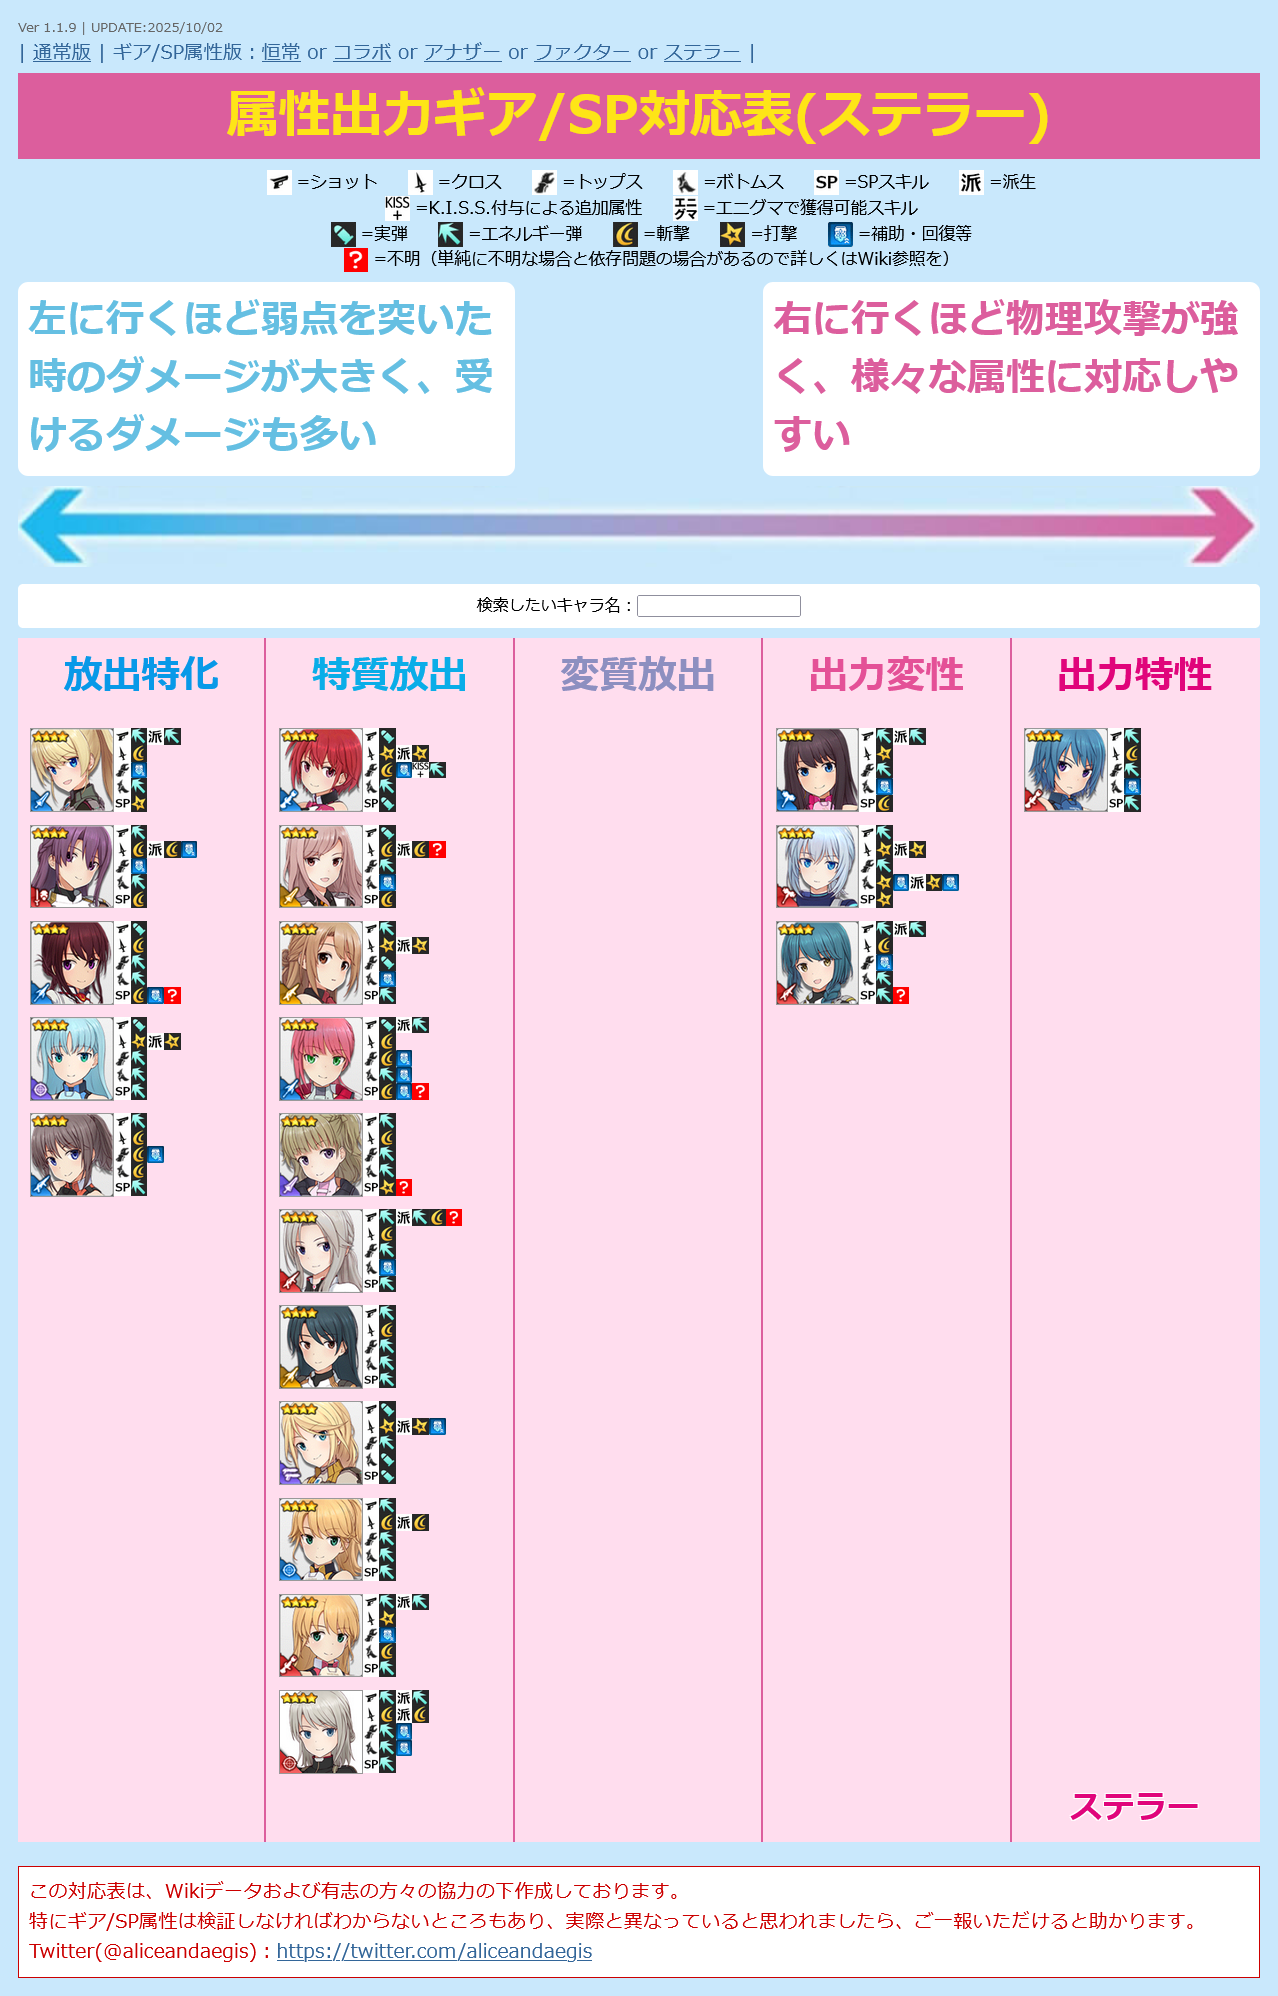
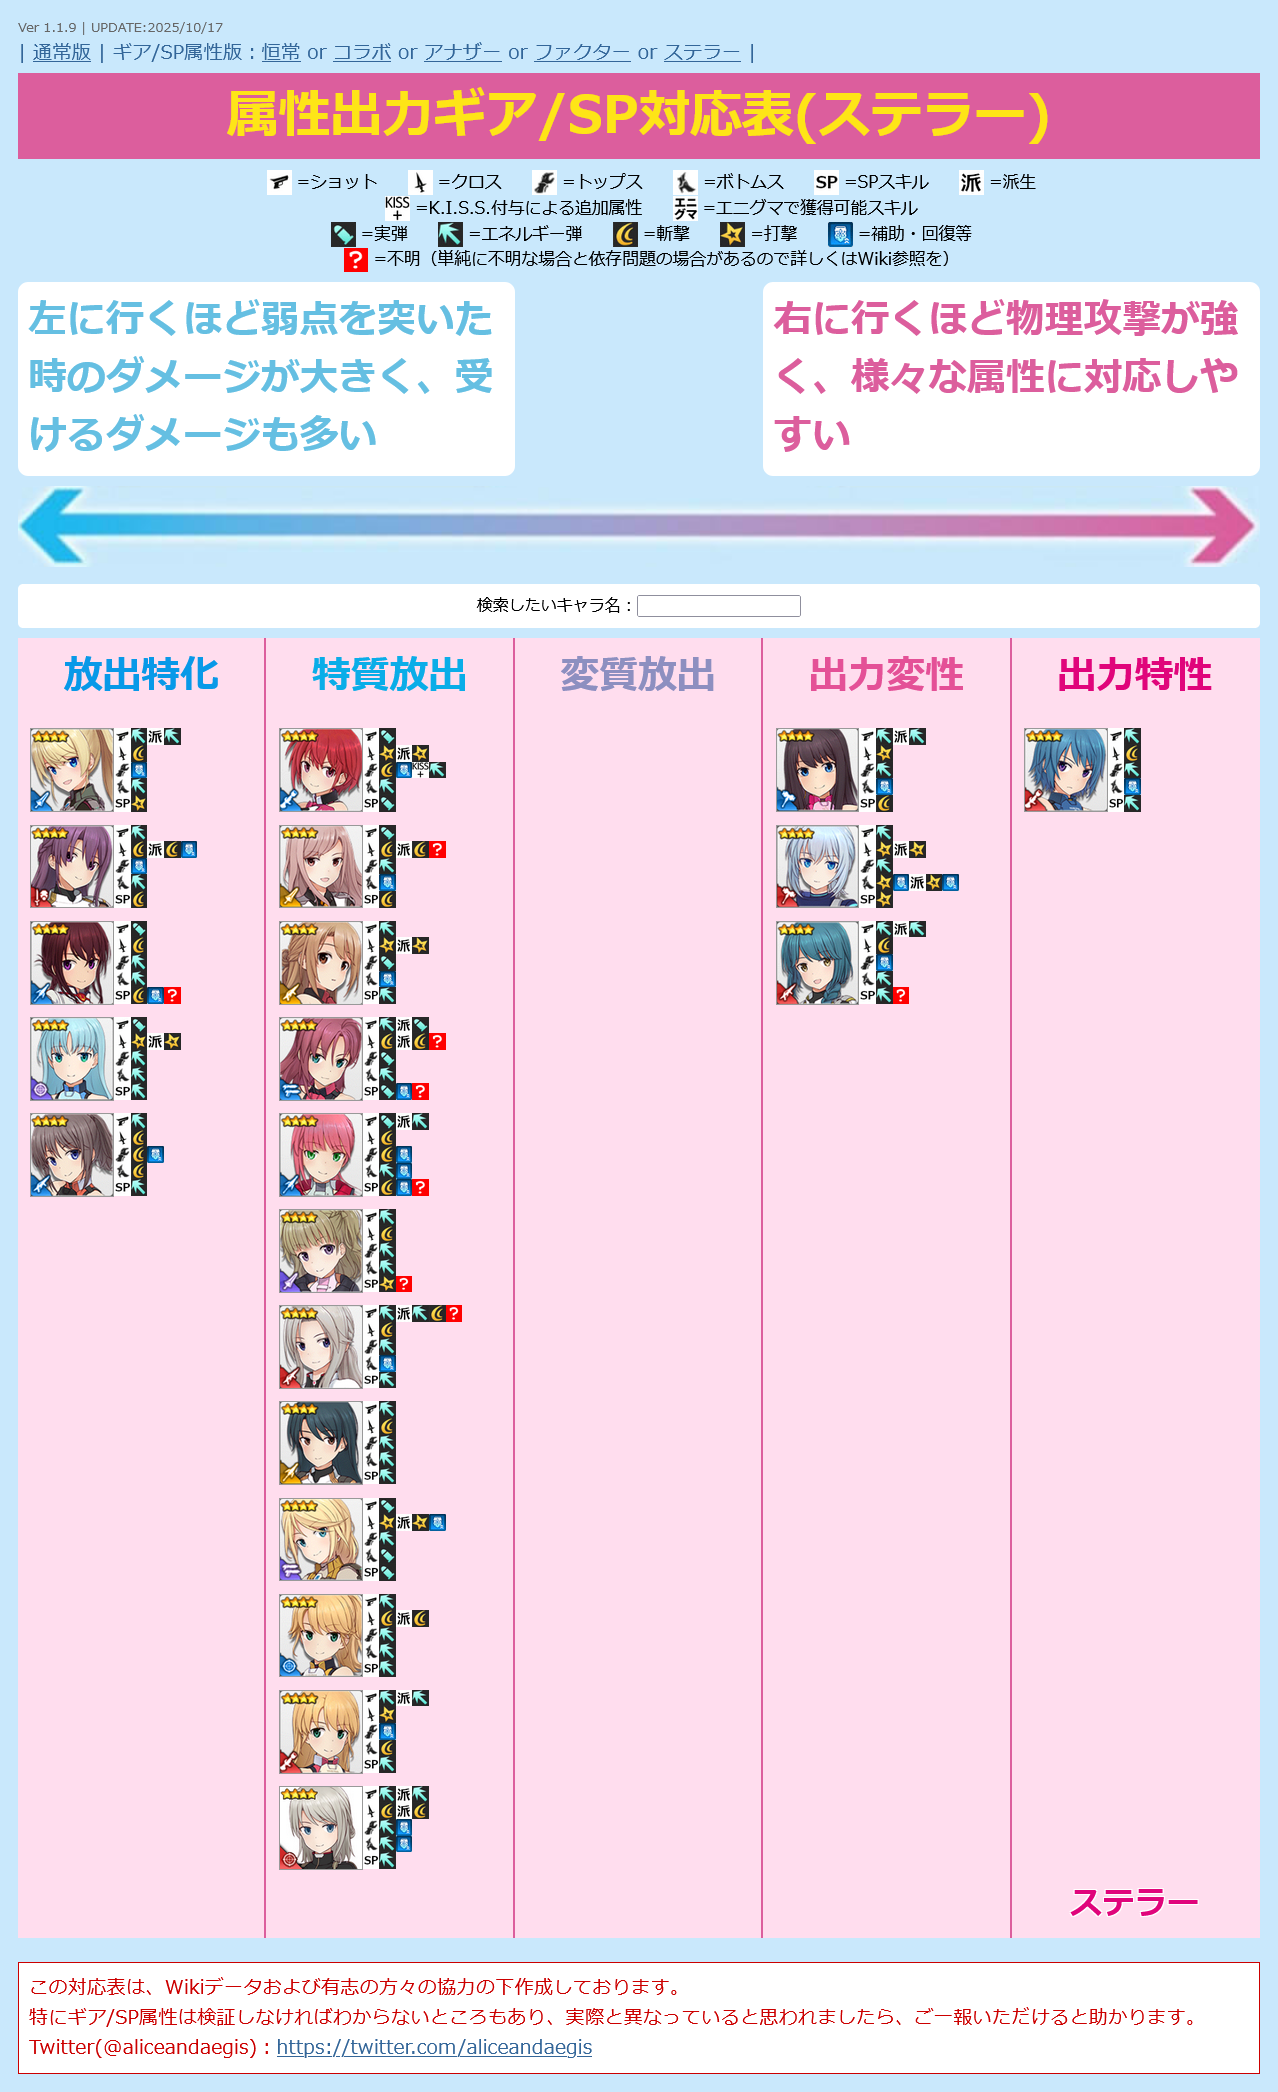
UPDATE charadata
・ステラー 蛙坂 来弥 / ハーミットを追加

Changed region(s): [[0.0, 0.0, 1.0, 0.994], [0.0305, 0.0, 0.1831, 0.0311]]

diff --git a/alice.html b/alice.html
@@ -12,7 +12,7 @@
   <script>
 
 /* 更新情報 必要に応じて書き換えてください */
-  var version = "Ver 1.1.9 | UPDATE:2025/10/02";
+  var version = "Ver 1.1.9 | UPDATE:2025/10/17";
 
 
 /*
@@ -883,7 +883,7 @@
       "src": "normal-raiya.png",
       "name": "蛙坂 来弥",
       "equip1": "2/1",
-      "equip2": "3",
+      "equip2": "3/3?",
       "equip3": "1",
       "equip4": "2",
       "sp": "3",
@@ -897,7 +897,7 @@
       "src": "another-raiya.png",
       "name": "蛙坂 来弥 / 残火",
       "equip1": "2/1",
-      "equip2": "3",
+      "equip2": "3/3?",
       "equip3": "1",
       "equip4": "2",
       "sp": "1",
@@ -911,13 +911,27 @@
       "src": "factor-raiya.png",
       "name": "蛙坂 来弥 / ネクスト",
       "equip1": "2/1",
-      "equip2": "3",
+      "equip2": "3/3?",
       "equip3": "1",
       "equip4": "2",
       "sp": "35",
       "attr": "3",
       "link": "https://wikiwiki.jp/alicegear/%E8%9B%99%E5%9D%82%E6%9D%A5%E5%BC%A5/%E3%83%8D%E3%82%AF%E3%82%B9%E3%83%88",
       "category": "11"
+    },
+    {
+      "id": "20",
+      "type": "2",
+      "src": "stellar-raiya.png",
+      "name": "蛙坂 来弥 / ハーミット",
+      "equip1": "2/1",
+      "equip2": "3/3?",
+      "equip3": "1",
+      "equip4": "2",
+      "sp": "15?",
+      "attr": "4",
+      "link": "https://wikiwiki.jp/alicegear/%E8%9B%99%E5%9D%82%E6%9D%A5%E5%BC%A5/%E3%83%8F%E3%83%BC%E3%83%9F%E3%83%83%E3%83%88",
+      "category": "12"
     },
     {
       "id": "21",
